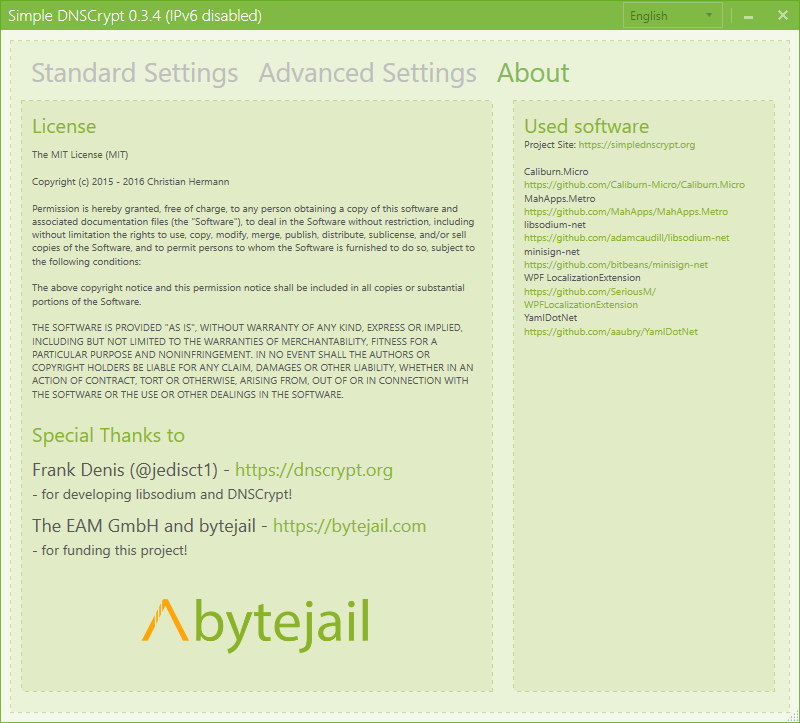
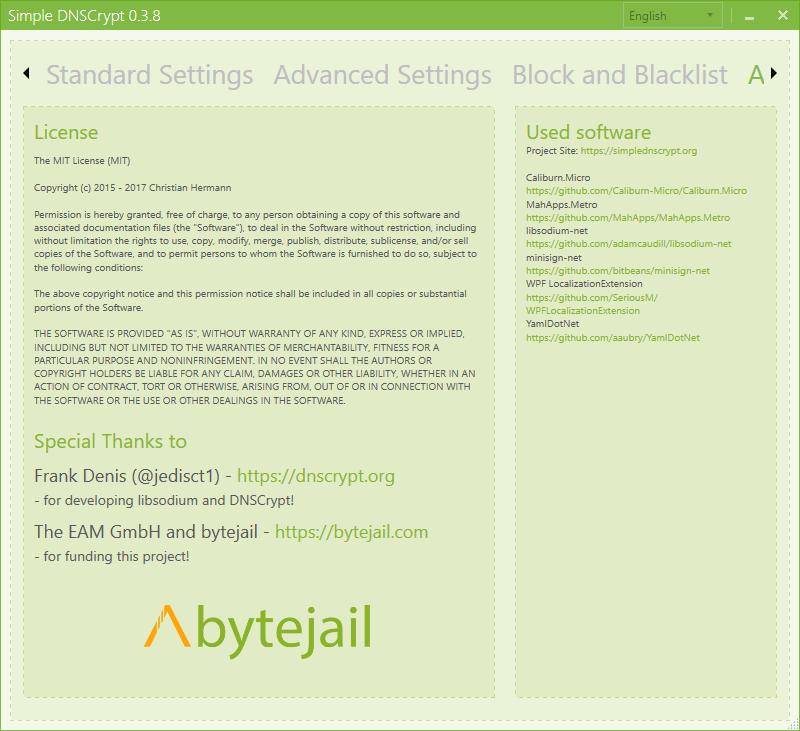
Update Screenshots

diff --git a/SimpleDnsCrypt/Views/MainView.xaml b/SimpleDnsCrypt/Views/MainView.xaml
@@ -1312,7 +1312,7 @@
                                                 The MIT License (MIT)
                                                 <LineBreak />
                                                 <LineBreak />
-                                                Copyright (c) 2015 - 2016 Christian Hermann
+                                                Copyright (c) 2015 - 2017 Christian Hermann
                                                 <LineBreak />
                                                 <LineBreak />
                                                 Permission is hereby granted, free of charge, to any person obtaining a copy

diff --git a/README.md b/README.md
@@ -11,6 +11,8 @@ Missing features:
 
 - IPv6 support - see [#1](https://github.com/bitbeans/SimpleDnsCrypt/issues/1)
 
+dnscrypt-proxy version: **1.9.1**
+
 # ![Alt text](img/icons/32x32.png "Installation") Installation
 
 To install Simple DNSCrypt use the [latest MSI package](https://github.com/bitbeans/SimpleDnsCrypt/releases/download/0.3.7/SimpleDNSCrypt.msi).
@@ -44,6 +46,10 @@ Simple DNSCrypt will automatically check for new versions on startup.
 
 ![plugin view](https://raw.githubusercontent.com/bitbeans/SimpleDnsCrypt/master/img/plugins.png)
 
+##### Block and Blacklist
+
+![plugin view](https://raw.githubusercontent.com/bitbeans/SimpleDnsCrypt/master/img/blacklist.png)
+
 Simple DNSCrypt currently supports two plugins:
 
 **libdcplugin_ldns_aaaa_blocking**
@@ -56,6 +62,11 @@ This plugin causes the proxy to reply immediately to IPv6 requests, without havi
 
 This plugin logs the DNS queries received by the proxy. The logs are stored in a local file.
 You can choose the folder, where dnscrypt-proxy will store the logfile (dns.log).
+
+**libdcplugin_cache**
+
+This plugin implements a simple, zero-configuration DNS response cache.
+The mimimum time to keep a record in cache can be specified in the cache plugin: 60 - 86400 seconds.
 
 **libdcplugin_ldns_blocking**
 
